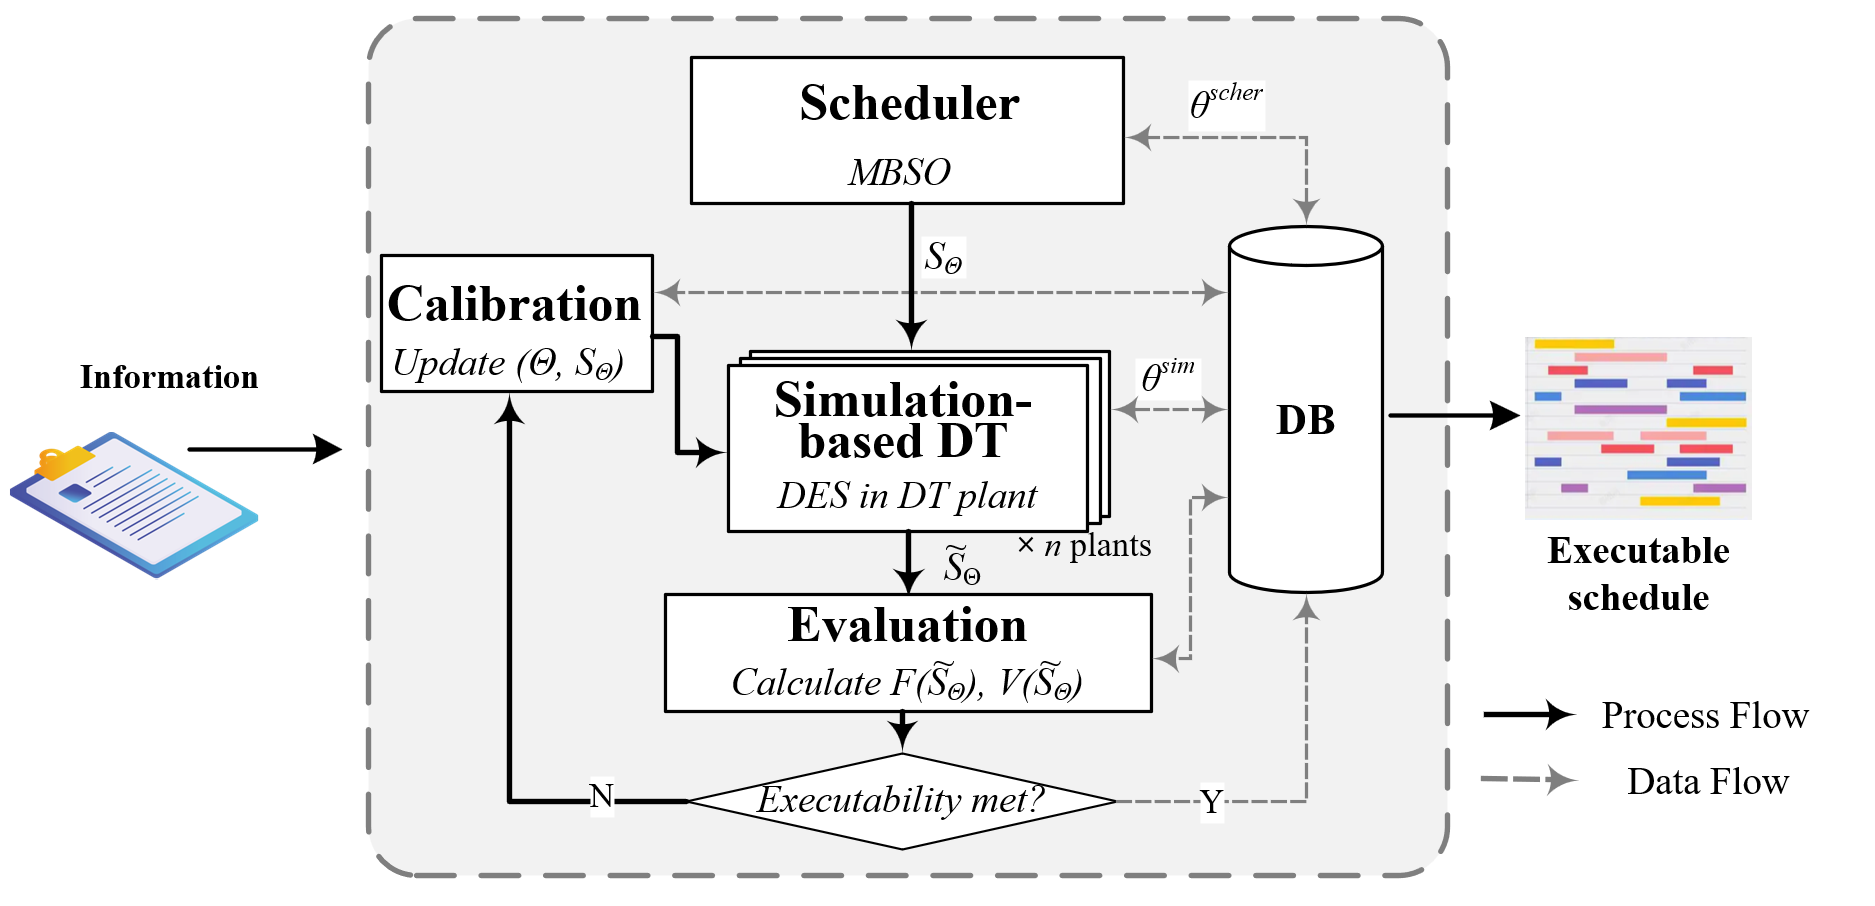
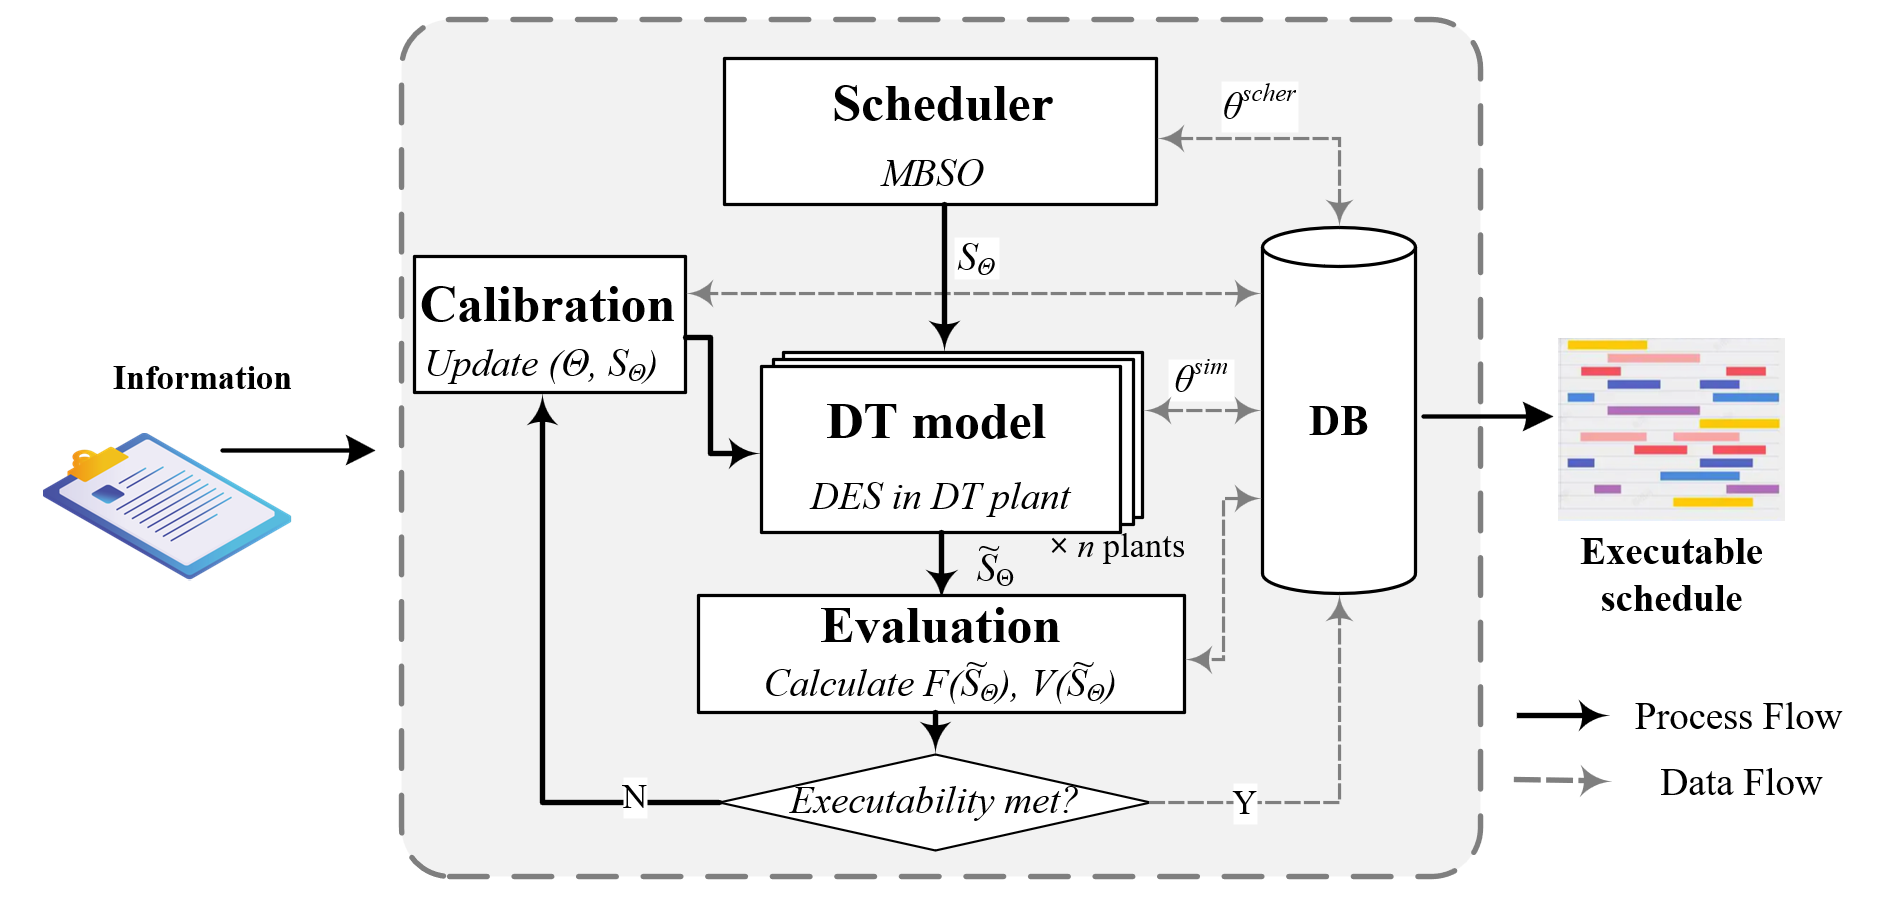
Update framework graphic and plant scopes

diff --git a/README.md b/README.md
@@ -35,8 +35,8 @@ The framework coordinates the Scheduler, simulation-based DT, Evaluation, and Ca
 | Model 4 | Jingye Steelmaking Plant | BOF to continuous casting | 64 / 85 heats | CCD: 2836 min for the reported scenario | Sequence-based planning and casting-start repair |
 | Model 5 | Dagang Steelmaking Plant | Hot-metal arrival to continuous casting | 84 heats | CCD: 1440 min | Sequence-based planning |
 | Model 6 | Hangang Steelmaking Plant | Hot-metal arrival to BOF | 135 heats | Production requirement satisfied | Sequence-based planning |
-| Model 7 | Nangang Steelmaking Plant | One-ladle hot-metal process to continuous casting | 90 heats | CCD: 1469 min | Hybrid compact/sequence planning and casting-start repair |
-| Model 8 | Xindachang Plant | One-ladle hot-metal process to BOF | 74 heats | Production requirement satisfied | Compact planning |
+| Model 7 | Nangang Steelmaking Plant | Blast-furnace iron tapping to continuous casting | 90 heats | CCD: 1469 min | Hybrid compact/sequence planning and casting-start repair |
+| Model 8 | Xindachang Plant | Blast-furnace iron tapping to continuous casting | 74 heats | Production requirement satisfied | Compact planning |
 | Model 9 | Yinggang Steelmaking Plant | BOF to continuous casting | 64 heats | CCD: 1410 min | Sequence-based planning |
 | Model 10 | Jingxi Steel Plant | Hot-metal arrival to continuous casting | 83 heats | CCD: 1609 min | Compact planning |
 | Model 11 | Shandong Steel Plant | BOF to continuous casting | 185 heats | CCD: 1832 min | Compact planning, route adaptation, and schedule repair |
@@ -99,7 +99,7 @@ Each card pairs a plant-specific simulation-based DT view with its continuous-ca
     </td>
     <td width="50%" valign="top">
       <h3>Model 7 - Nangang</h3>
-      <p><b>90 heats</b> · One-ladle hot-metal process to continuous casting</p>
+      <p><b>90 heats</b> · Blast-furnace iron tapping to continuous casting</p>
       <a href="assets/simulation/model7.gif"><img src="assets/simulation/model7.gif" width="100%" alt="Simulation-based DT view for Model 7"></a>
       <a href="assets/casting-rhythm/model7.png"><img src="assets/casting-rhythm/model7.png" width="100%" alt="Continuous-casting rhythm for Model 7"></a>
     </td>
@@ -107,7 +107,7 @@ Each card pairs a plant-specific simulation-based DT view with its continuous-ca
   <tr>
     <td width="50%" valign="top">
       <h3>Model 8 - Xindachang</h3>
-      <p><b>74 heats</b> · One-ladle hot-metal process to BOF</p>
+      <p><b>74 heats</b> · Blast-furnace iron tapping to continuous casting</p>
       <a href="assets/simulation/model8.gif"><img src="assets/simulation/model8.gif" width="100%" alt="Simulation-based DT view for Model 8"></a>
       <a href="assets/casting-rhythm/model8.png"><img src="assets/casting-rhythm/model8.png" width="100%" alt="Production rhythm for Model 8"></a>
     </td>
